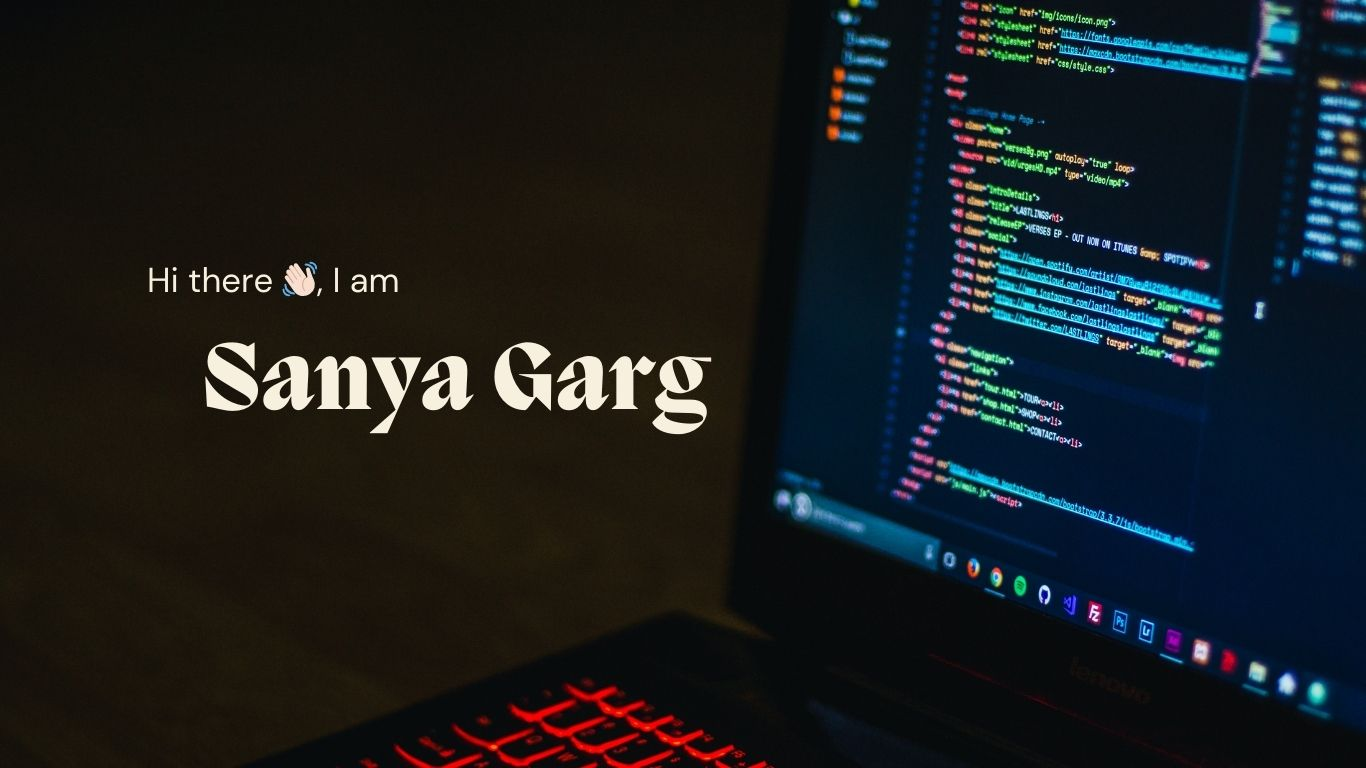
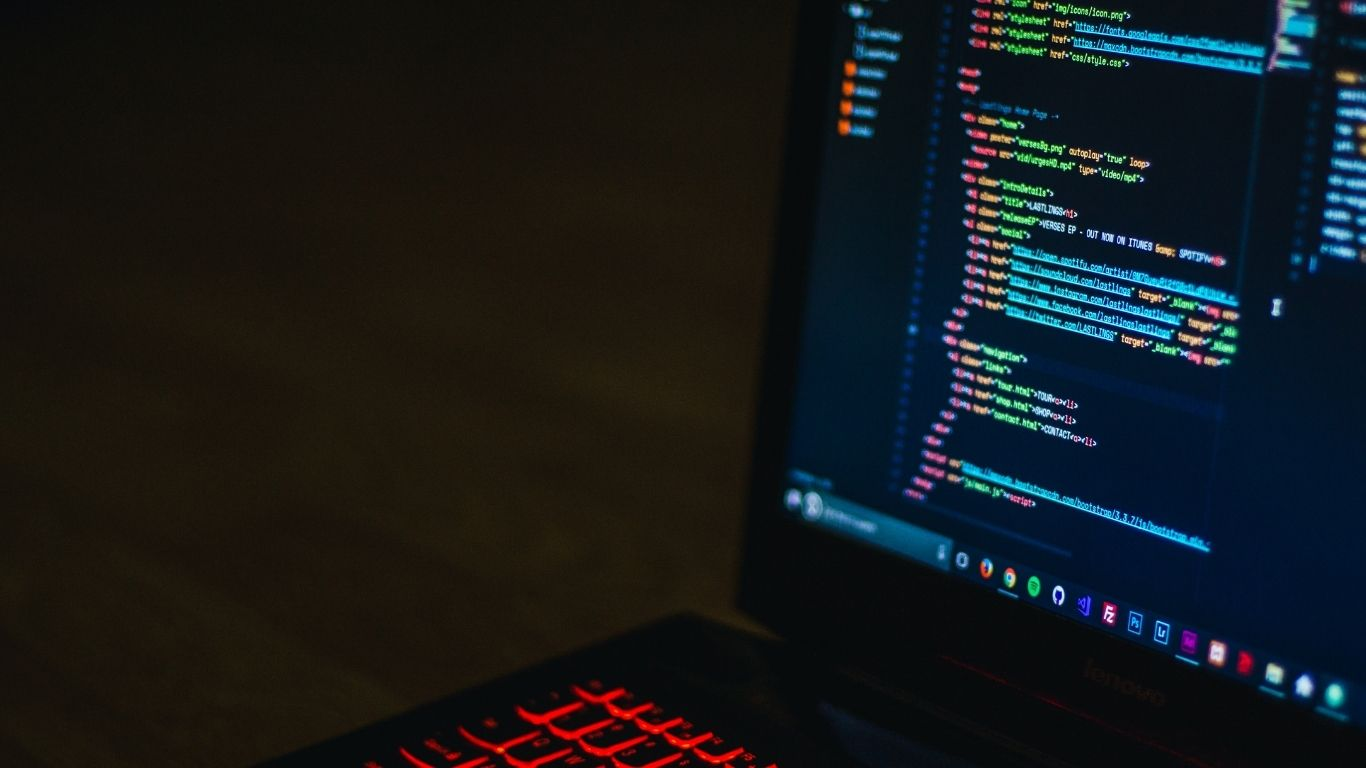
fix the text on home page

diff --git a/src/components/Home.jsx b/src/components/Home.jsx
@@ -6,13 +6,17 @@ const HomeSection = styled.section`
   position: relative;
   display: flex;
   align-items: center;
-  justify-content: center;
-  margin: 0;
+  justify-content: flex-start;
+  padding-left: 5vw;
   overflow: hidden;
   background-color: #0a0a0a;
+
+  @media (max-width: 768px) {
+    justify-content: center;
+    padding-left: 0;
+    text-align: center;
+  }
 `;
-
-
 
 const BackgroundImage = styled.div`
   position: absolute;
@@ -26,6 +30,34 @@ const BackgroundImage = styled.div`
   z-index: 0;
 `;
 
+const TextContainer = styled.div`
+  position: relative;
+  z-index: 1;
+  color: #f8f0de;
+`;
+
+const IntroText = styled.h2`
+  font-family: 'DM Sans', sans-serif;
+  font-size: 32px;
+  font-weight: 400;
+  margin: 0;
+`;
+
+const NameText = styled.h1`
+  font-family: 'Migra', serif;
+  font-size: 84px;
+  font-weight: 700;
+  margin: 0;
+
+  @media (max-width: 768px) {
+    font-size: 60px;
+  }
+
+  @media (max-width: 480px) {
+    font-size: 44px;
+  }
+`;
+
 function Home() {
   return (
     <HomeSection id="home">
@@ -35,6 +67,10 @@ function Home() {
           opacity: 1
         }}
       />
+      <TextContainer>
+        <IntroText>Hi there 👋🏻, I am</IntroText>
+        <NameText>Sanya Garg</NameText>
+      </TextContainer>
     </HomeSection>
   );
 }

diff --git a/index.html b/index.html
@@ -3,6 +3,9 @@
   <head>
     <meta charset="UTF-8" />
     <link rel="icon" type="image/svg+xml" href="/vite.svg" />
+    <link href="https://fonts.googleapis.com/css2?family=DM+Sans&family=Playfair+Display:wght@700&display=swap" rel="stylesheet">
+
+
     <meta name="viewport" content="width=device-width, initial-scale=1.0" />
     <title>Sanya Garg - Portfolio</title>
     <style>
@@ -13,7 +16,7 @@
       }
       body {
         font-family: -apple-system, BlinkMacSystemFont, 'Segoe UI', Roboto, Oxygen,
-          Ubuntu, Cantarell, 'Open Sans', 'Helvetica Neue', sans-serif;
+          Ubuntu, Cantarell, 'Open Sans', 'Helvetica Neue', sans-serif, 'DM Sans', 'Playfair Display';
       }
     </style>
   </head>
